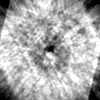
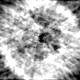
Add moment results

diff --git a/scripts/reconstruct.m b/scripts/reconstruct.m
@@ -1,12 +1,12 @@
-num_theta = [10 20 30 50 70 100 120 150];
+num_theta = [3 5 10 20 50 100 150];
 % Get the image.
 P = imread('../images/200px-mickey.jpg');
-P = imresize(P, 0.5);
+P = imresize(P, 0.4);
 P = im2double(rgb2gray(P));
-for o=6:6
+parfor o=1:7
     disp(num_theta(o));
     % Write the original image.
-    imwrite(P, strcat('../results/unknown_angles/num_angles/',...
+    imwrite(P, strcat('../results/unknown_angles/100/',...
         num2str(num_theta(o)), '/original_image.png'));
 
     % Constants.
@@ -28,19 +28,19 @@ for o=6:6
     projection_length = size(projections, 1);
 
     % Initialize angles randomly
-    thetasestimated = firstestimate(theta);
+    thetasestimated = firstestimate(theta, num_theta(o));
 
     thetasestimated = moment_angle_estimation(projections, thetasestimated');
 
     % Reconstruct the images from projection.
     reconstructed_image = iradon(projections, thetasestimated, output_size);
     imwrite(reconstructed_image, ...
-        strcat('../results/unknown_angles/num_angles/',...
+        strcat('../results/unknown_angles/100/',...
         num2str(num_theta(o)), '/estimated_image.png'));
 
     reconstructed_image = refine_reconstruction(projections,...
         thetasestimated', height, width, projection_length, output_size);
 
-    imwrite(reconstructed_image, strcat('../results/unknown_angles/num_angles/',...
+    imwrite(reconstructed_image, strcat('../results/unknown_angles/100/',...
         num2str(num_theta(o)), '/reconstructed.png'));
 end;

diff --git a/scripts/eeshan/2015-10-26/scripts/ARP.m b/scripts/eeshan/2015-10-26/scripts/ARP.m
@@ -21,6 +21,7 @@
     %I = phantom(200);
     imagefile = '../images/200px-mickey.jpg';
     I = rgb2gray(imread(imagefile));
+    I = imresize(I, 0.4);
     %  figure();
     %imshow(I,'InitialMagnification','fit');
 
@@ -140,22 +141,23 @@
         ctr = ctr + 1;
         disp([num2str(iteration)]);
         for i = 1:numkeep
-            i
             besttheta = thetasestimated(i);
-            bestE = E_current
+            bestE = E_current;
+            E_array = [];
             
-            for t = [-179:180]
+            for t = -179:180
                 thetas_iter = thetasestimated;
                 thetas_iter(i) = t;
 
                 E_t = (norm(Pgiven - radon(I_current, thetas_iter),2)) ^ 2;
                 
+%                 E_array = [E_array E_t];
                 if E_t < bestE
                     besttheta = t;
                     bestE = E_t;
                 end
             end
-            besttheta
+%             [~, besttheta] = min(E_array);
             thetasestimated(i) = besttheta;
             I_current = iradon(Pgiven, thetasestimated);
             I_current = I_current(2:end-1, 2:end-1); % crop

diff --git a/scripts/firstestimate.m b/scripts/firstestimate.m
@@ -1,10 +1,10 @@
-function thetas = firstestimate(actual)
+function thetas = firstestimate(actual, deviation)
     %% 1. Uniformly across entire range
     thetas = randi([0 179], 1, size(actual, 2));
 %     reverse_thetas = fliplr(thetas);
 %     reverse_thetas = 180 - reverse_thetas;
 %     thetas = [thetas reverse_thetas];
     %% 2. With some uncertainty around actual values
-%     thetas = actual + randi([-20 20],size(actual));
+    thetas = actual + randi([-deviation deviation],size(actual));
     
 end

diff --git a/scripts/eeshan/2015-10-26/scripts/firstestimate.m b/scripts/eeshan/2015-10-26/scripts/firstestimate.m
@@ -1,8 +1,8 @@
 function thetas = firstestimate(actual)
     %% 1. Uniformly across entire range
-    thetas = randi([1 179], size(actual, 2), 1);
+%     thetas = randi([1 179], size(actual, 2), 1);
     
     %% 2. With some uncertainty around actual values
-%     thetas = actual + randi([-2 2],size(actual));
+    thetas = actual + randi([-2 2],size(actual));
     
 end
